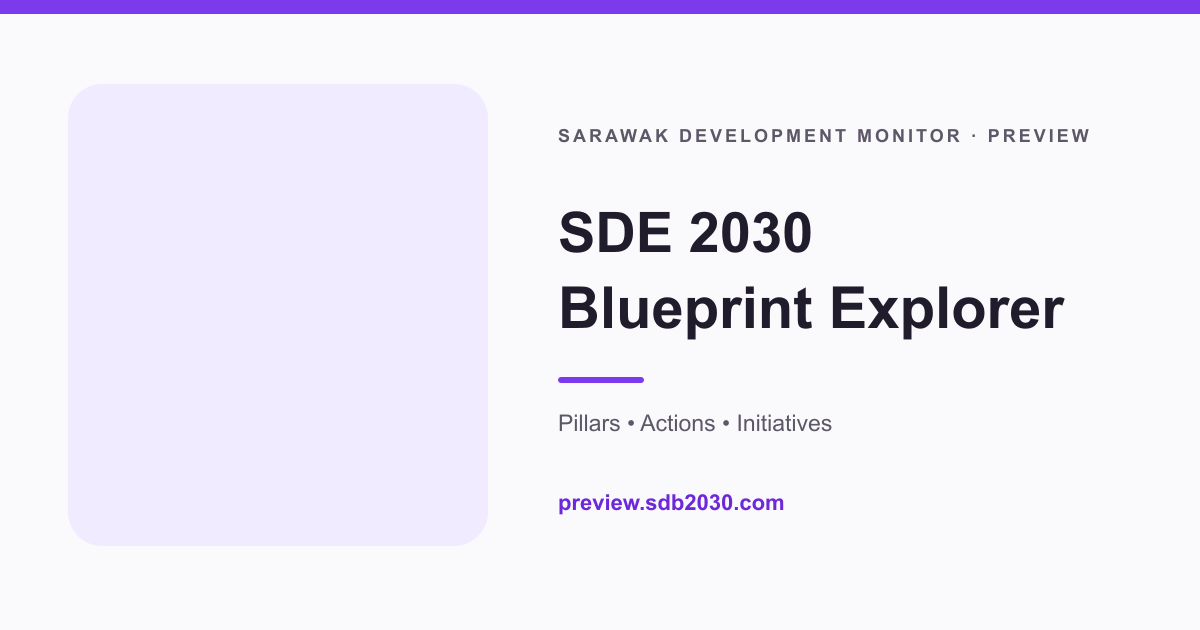
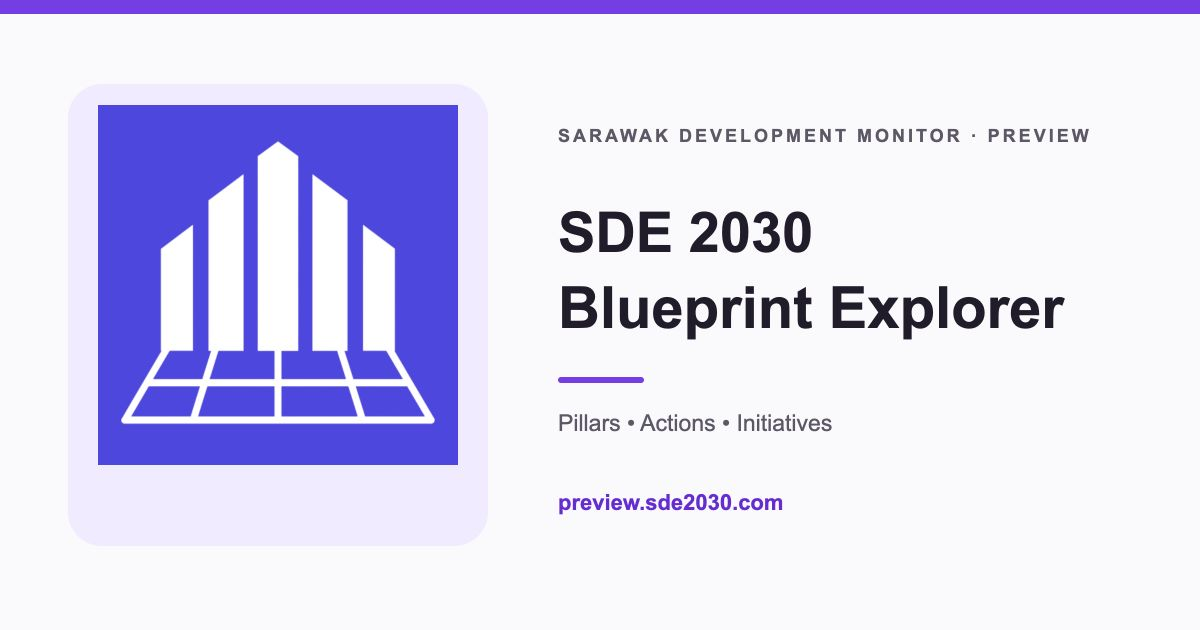
chore: prepare GitHub Pages deployment

diff --git a/index.html b/index.html
@@ -27,16 +27,16 @@
     </script>
     <title>SDE 2030 Blueprint Explorer</title>
     <meta name="description" content="Explore the 106 initiatives, 31 strategic actions, five pillars, and roadmap targets in the Sarawak Digital Economy Blueprint 2030." />
-    <link rel="canonical" href="https://sdb2030.com/" />
+    <link rel="canonical" href="https://sde2030.com/" />
     <meta property="og:type" content="website" />
     <meta property="og:locale" content="en_MY" />
     <meta property="og:locale:alternate" content="ms_MY" />
     <meta property="og:site_name" content="SDE 2030 Blueprint Explorer" />
     <meta property="og:title" content="SDE 2030 Blueprint Explorer" />
     <meta property="og:description" content="Explore the 106 initiatives, 31 strategic actions, five pillars, and roadmap targets in the Sarawak Digital Economy Blueprint 2030." />
-    <meta property="og:url" content="https://sdb2030.com/" />
-    <meta property="og:image" content="https://sdb2030.com/social-preview-%MODE%.png?v=20260810a" />
-    <meta property="og:image:secure_url" content="https://sdb2030.com/social-preview-%MODE%.png?v=20260810a" />
+    <meta property="og:url" content="https://sde2030.com/" />
+    <meta property="og:image" content="https://sde2030.com/social-preview-%MODE%.png?v=20260810a" />
+    <meta property="og:image:secure_url" content="https://sde2030.com/social-preview-%MODE%.png?v=20260810a" />
     <meta property="og:image:type" content="image/png" />
     <meta property="og:image:width" content="1200" />
     <meta property="og:image:height" content="630" />
@@ -44,7 +44,7 @@
     <meta name="twitter:card" content="summary_large_image" />
     <meta name="twitter:title" content="SDE 2030 Blueprint Explorer" />
     <meta name="twitter:description" content="Explore the 106 initiatives, 31 strategic actions, five pillars, and roadmap targets in the Sarawak Digital Economy Blueprint 2030." />
-    <meta name="twitter:image" content="https://sdb2030.com/social-preview-%MODE%.png?v=20260810a" />
+    <meta name="twitter:image" content="https://sde2030.com/social-preview-%MODE%.png?v=20260810a" />
     <meta name="twitter:image:alt" content="SDE 2030 Blueprint Explorer" />
     <script type="application/ld+json">
       {
@@ -52,7 +52,7 @@
         "@type": "WebSite",
         "name": "SDE 2030 Blueprint Explorer",
         "alternateName": ["Sarawak Digital Economy Blueprint 2030 Explorer", "Peneroka Blueprint SDE 2030"],
-        "url": "https://sdb2030.com/",
+        "url": "https://sde2030.com/",
         "description": "An independent explorer of the Sarawak Digital Economy Blueprint 2030, including its pillars, strategic actions, initiatives, original targets and timelines.",
         "inLanguage": ["en-MY", "ms-MY"]
       }

diff --git a/src/routes.js b/src/routes.js
@@ -1,5 +1,5 @@
 import { getUiCopy } from "./localization.js";
-const PRODUCTION_ORIGIN = "https://sdb2030.com";
+const PRODUCTION_ORIGIN = "https://sde2030.com";
 const trackerAlternates = [{ hreflang: "en-MY", routeId: "tracker-en" }, { hreflang: "ms-MY", routeId: "tracker-ms" }, { hreflang: "x-default", routeId: "tracker-en" }];
 const methodologyAlternates = [{ hreflang: "en-MY", routeId: "updates" }, { hreflang: "ms-MY", routeId: "updates-ms" }, { hreflang: "x-default", routeId: "updates" }];
 export const STATIC_ROUTES = [{ id: "tracker-en", page: "tracker", path: "/", language: "en", locale: "en_MY", metadata: getUiCopy("en").metadata, alternates: trackerAlternates }, { id: "tracker-ms", page: "tracker", path: "/bm/", language: "ms", locale: "ms_MY", metadata: getUiCopy("ms").metadata, alternates: trackerAlternates }, { id: "updates", page: "updates", path: "/updates/", language: "en", locale: "en_MY", metadata: { title: "SDE 2030 Baseline & Methodology | Sarawak Development Monitor", description: "How the independent SDE 2030 Blueprint Explorer presents the original 2023 hierarchy, initiatives, targets and timelines without inferring current implementation." }, alternates: methodologyAlternates }, { id: "updates-ms", page: "updates", path: "/bm/updates/", language: "ms", locale: "ms_MY", metadata: { title: "Asas & Metodologi SDE 2030 | Sarawak Development Monitor", description: "Cara Peneroka Blueprint SDE 2030 memaparkan hierarki, inisiatif, sasaran dan garis masa asal 2023 tanpa membuat inferens pelaksanaan semasa." }, alternates: methodologyAlternates }];

diff --git a/README.md b/README.md
@@ -24,7 +24,7 @@ npm run build:local
 npm run preview:start
 ```
 
-The preview command reports its selected port. In the current local session it is available at `http://127.0.0.1:4175/` because port 4174 is already in use.
+The preview command reports its selected local port.
 
 ## Routes
 
@@ -41,4 +41,8 @@ The user-supplied 2023 Blueprint PDF is the immutable baseline source. It establ
 
 This is a static Vite and React app adapted from the PCDS 2030 tracker shell. It has no backend, account system, or database. The canonical Blueprint baseline lives in `src/blueprintData.js`; deferred implementation research remains in `src/implementationData.js` without appearing in the public interface.
 
-No domain, deployment, or remote repository is configured as part of the local stages.
+## Publishing
+
+Production is built from `main` by GitHub Actions and published through GitHub Pages at [sde2030.com](https://sde2030.com). Cloudflare manages the domain and DNS.
+
+The production workflow runs the content validator and linter before building and prerendering all four public routes into `dist`.

diff --git a/docs/design.md b/docs/design.md
@@ -52,4 +52,4 @@ Translate interface controls and explanations into BM. Keep canonical source-der
 
 ## Environments
 
-Stage 1 is local only. The intended future canonical domain is `sdb2030.com`, but domain purchase, DNS, preview hosting, and production deployment are outside the current scope.
+Production is published from `main` through GitHub Pages at `sde2030.com`. Cloudflare remains the registrar and DNS provider. Preview deployments may use `preview.sde2030.com` when a dedicated Preview workflow is introduced.
